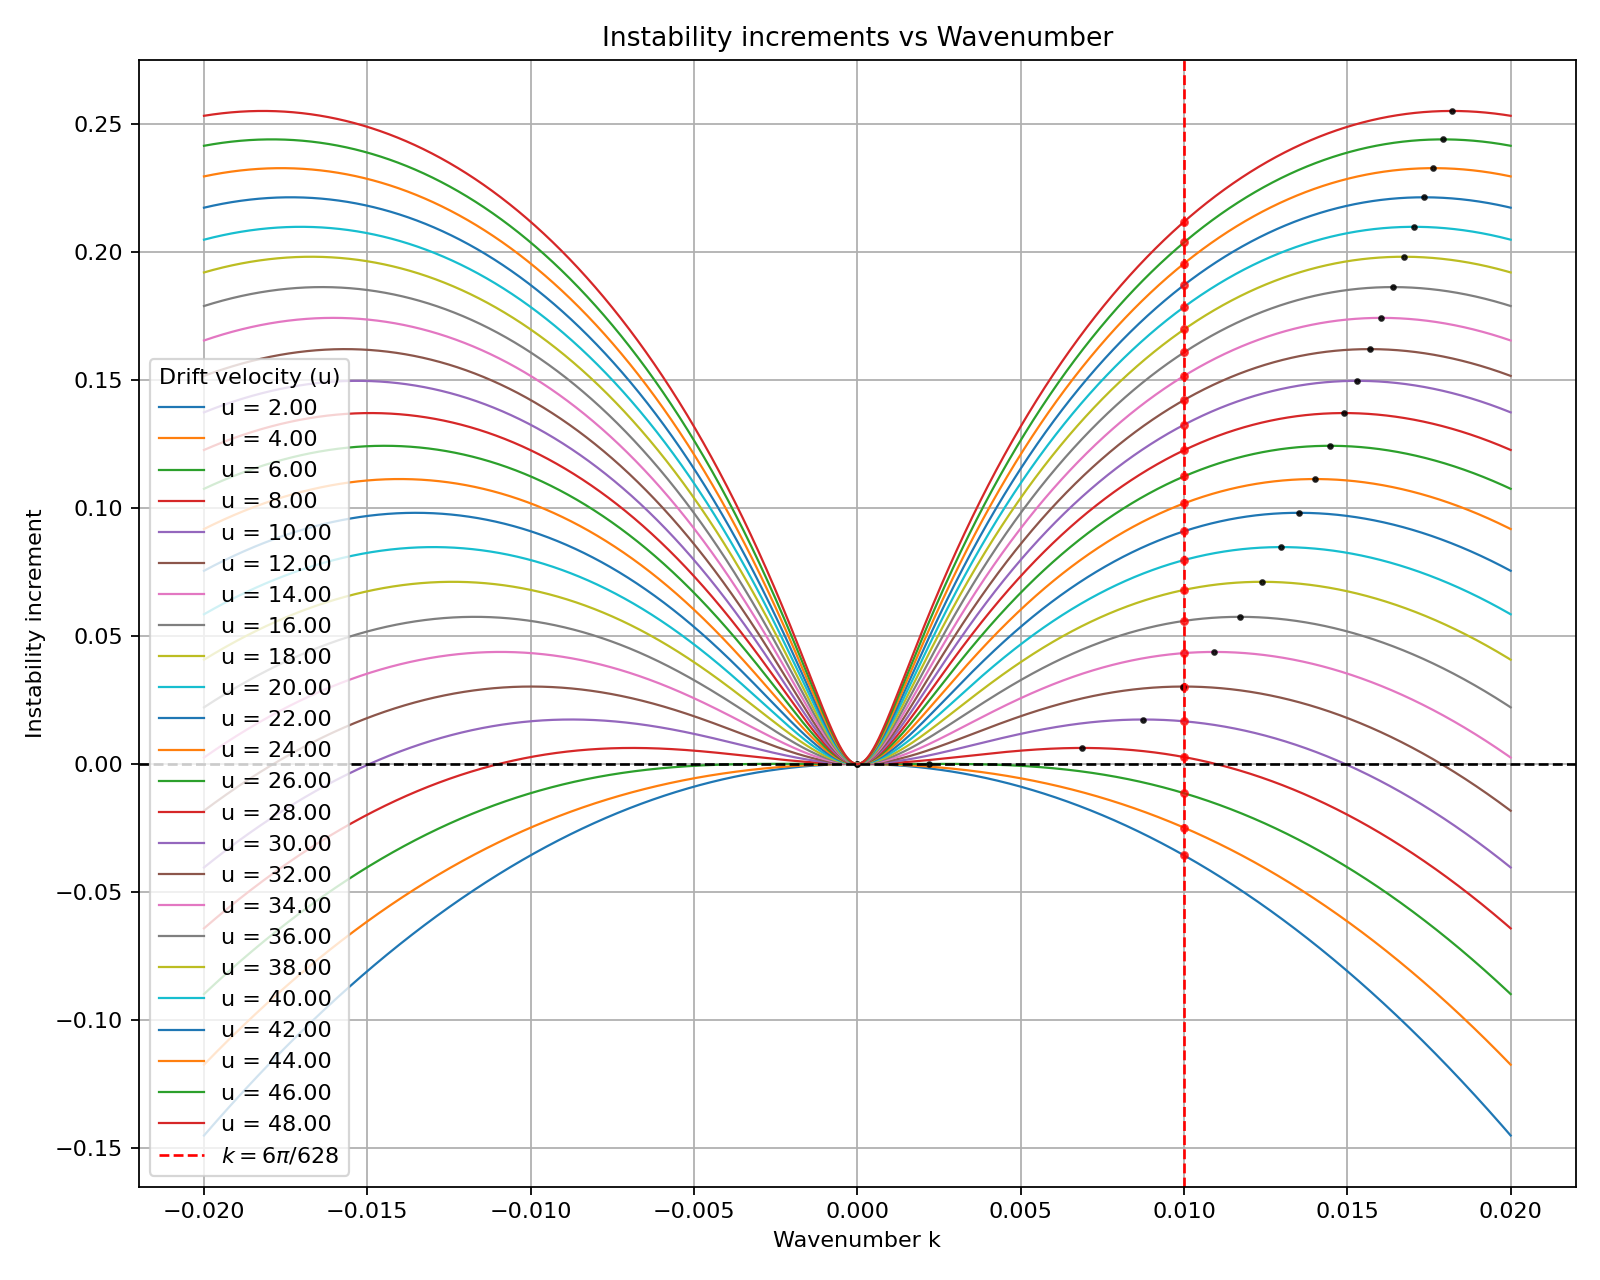
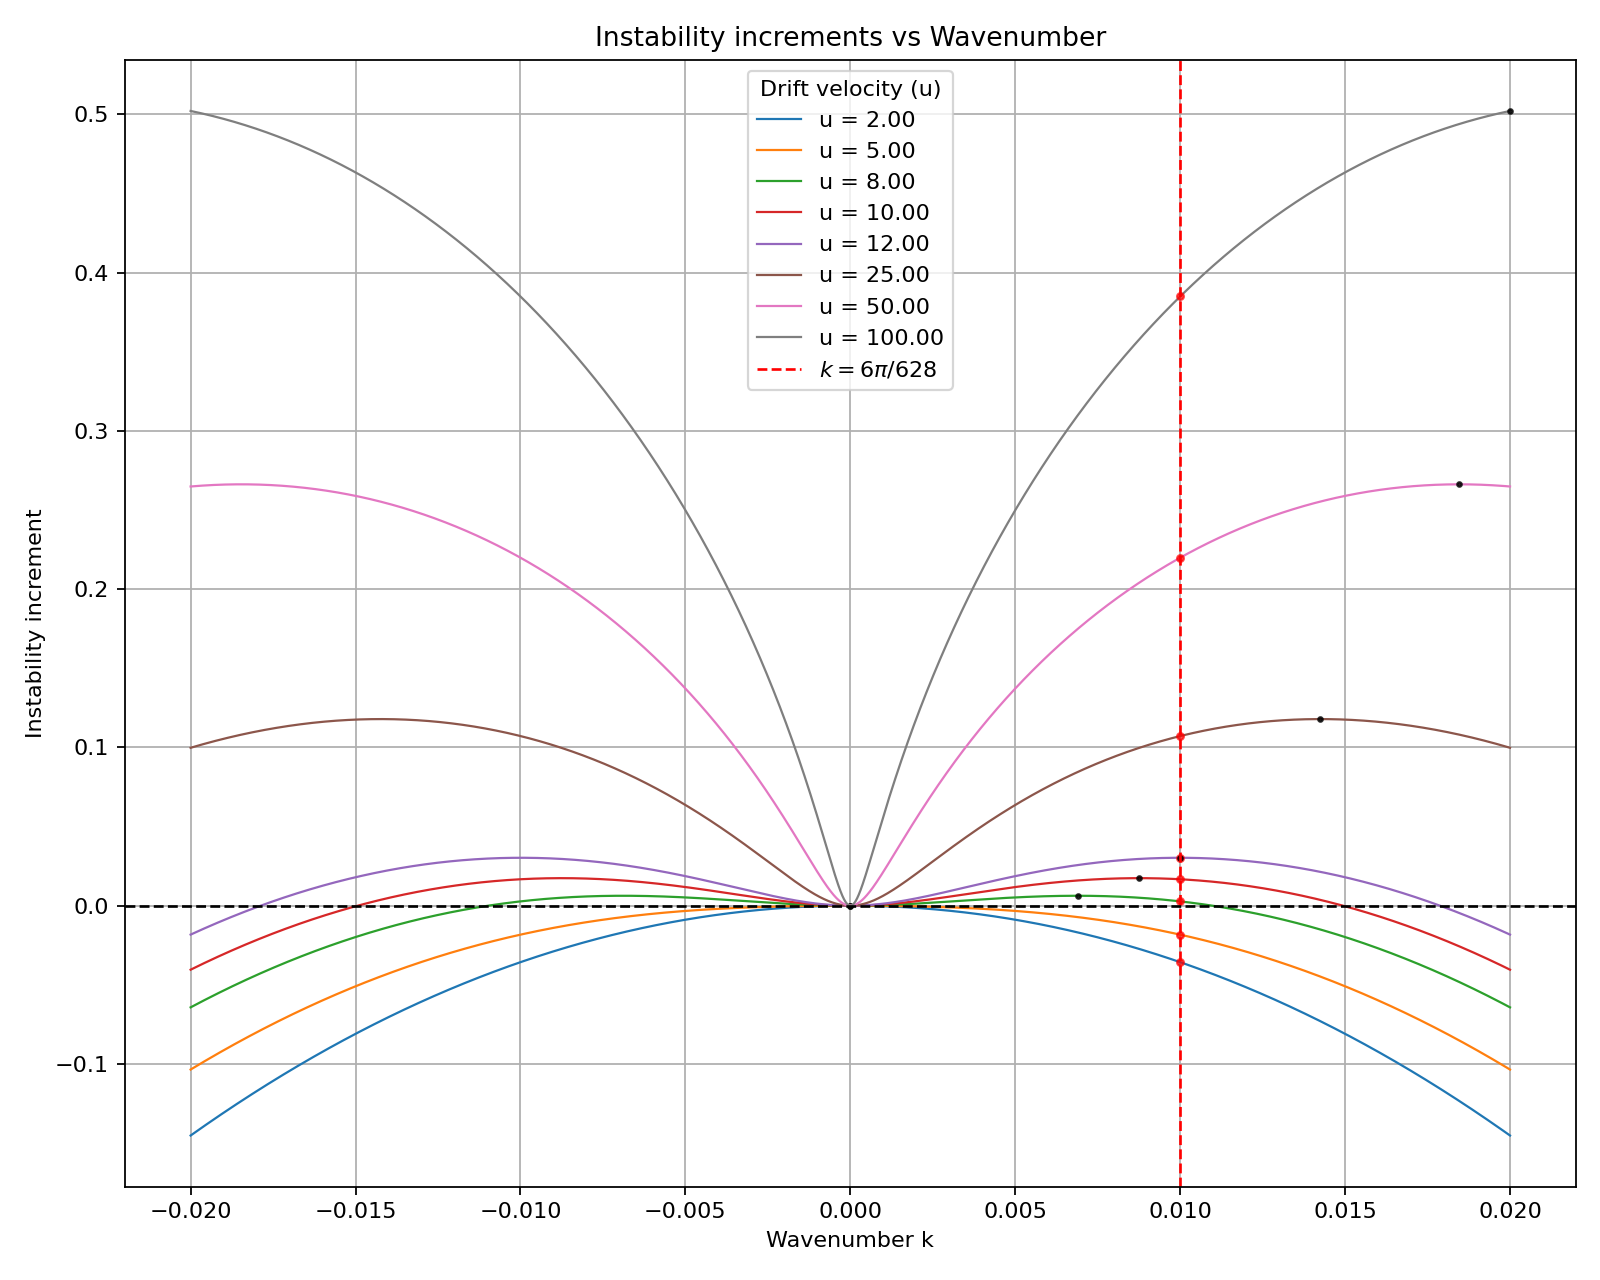
Refine instability increment analysis by updating drift velocity values in `linear_instability_increment.py` to a non-linear distribution ranging from 2.0 to 100.0. Enhanced PDF and PNG visualizations to reflect these changes, improving clarity and detail in the analysis of instability increments vs

diff --git a/mass injection/parallel_running/main.py b/mass injection/parallel_running/main.py
@@ -62,7 +62,7 @@ class P:
 
     L: float = 200*3.1415926
     Nx: int = 512
-    t_final: float = 100.0
+    t_final: float = 10.0
     n_save: int = 3600
     rtol: float = 1e-3
     atol: float = 1e-7
@@ -270,7 +270,7 @@ def measure_sigma_for_mode(m_pick=3, A=1e-3, t_short=35.0):
 def run_all_ud_snapshots(tag="snapshots_ud_panels"):
     os.makedirs(par.outdir, exist_ok=True)
 
-    u_d_values = [12.0]#np.arange(1.0, 150.0, 10.0)#[40.0]#np.arange(0.1, 1.8, 0.2)#np.arange(0.1, 0.9, 0.1)
+    u_d_values = [100.0]#np.arange(1.0, 150.0, 10.0)#[40.0]#np.arange(0.1, 1.8, 0.2)#np.arange(0.1, 0.9, 0.1)
     results = []
 
     old_ud = par.u_d

diff --git a/linear instability increment/linear_instability_increment.py b/linear instability increment/linear_instability_increment.py
@@ -15,7 +15,8 @@ fig, ax = plt.subplots(figsize=(10, 8))
 
 u_star = 0.37671861
 
-u_values = np.arange(2.0, 50, 2.0)#np.append(np.arange(0.4, 0.46, 0.01), u_star)
+# Non-linear distribution: more points at smaller u_d, 8 points total from 0.5 to 100.0
+u_values = np.array([2.0, 5.0, 8.0, 10.0, 12.0, 25.0, 50.0, 100.0])
 
 L = 200*3.1415926
 k_line = 2 * np.pi / L
